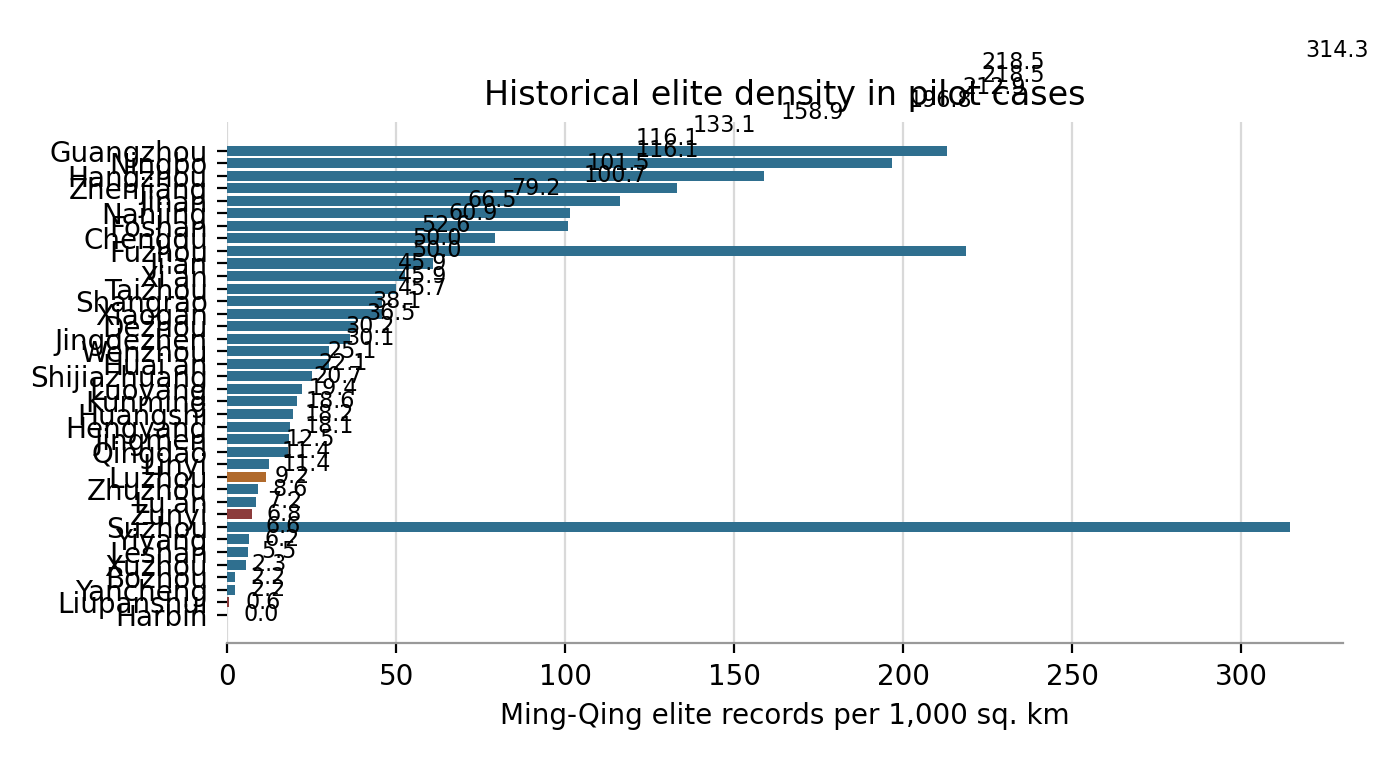
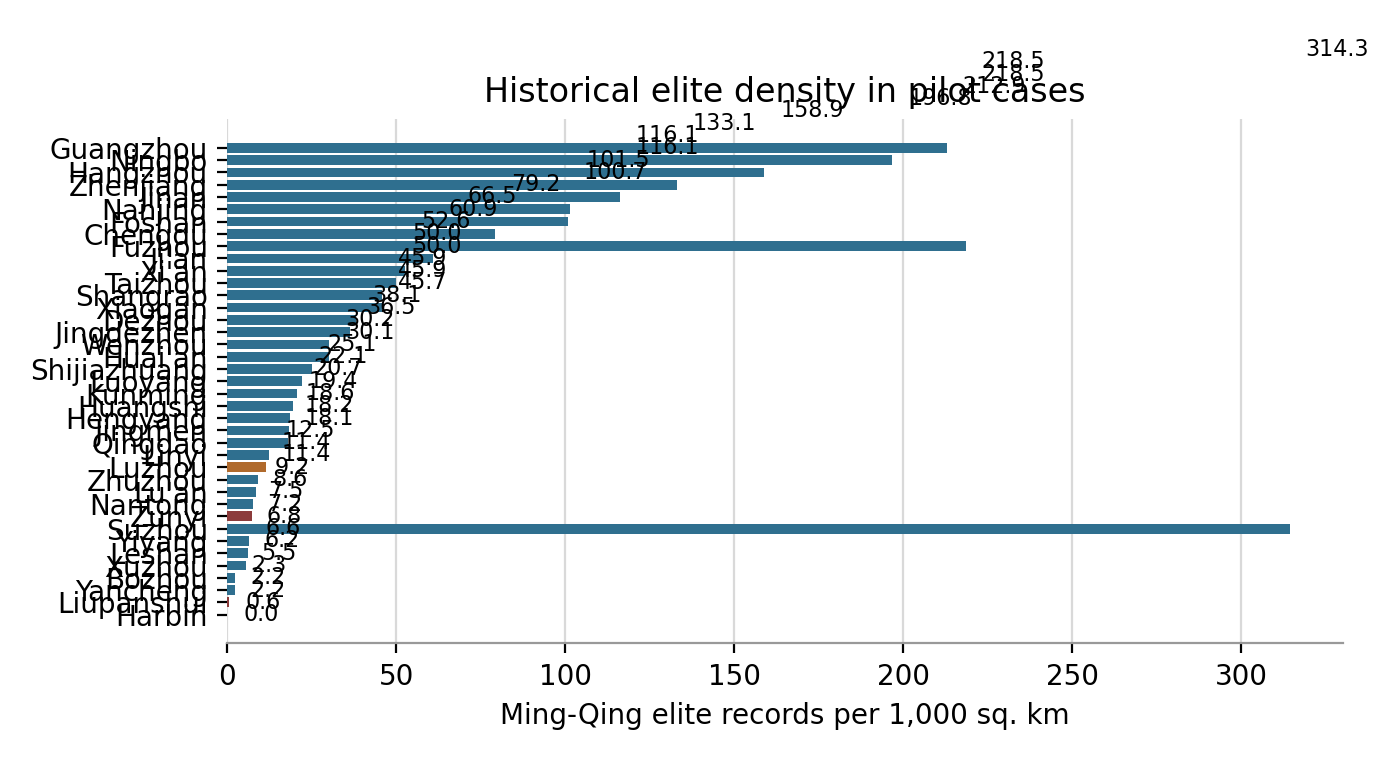
Validate Haian Tenghai development-zone case

Changed region(s): [[0.0, 0.0605, 0.7679, 0.7868], [0.9521, 0.0605, 0.9829, 0.0908]]

diff --git a/paper/sections/empirical_strategy.tex b/paper/sections/empirical_strategy.tex
@@ -51,7 +51,7 @@ human-validated labels from candidate cases throughout the analysis.
 
 Table \ref{tab:pilot-validation-tiers} summarizes the validation status of the
 current evidence packets. The human-validated label file now contains
-fifty-six cases, and the broader screening file contains 247 disclosure rows,
+fifty-seven cases, and the broader screening file contains 247 disclosure rows,
 including four boundary-reviewed packets. The descriptive tables in this section retain
 the historical-capacity matched subset until the remaining expansion cases are
 merged into the historical-capacity crosswalk. This keeps the pilot evidence
@@ -144,6 +144,17 @@ of the theory. High historical capacity does not guarantee substantive exit.
 It can also support a legally cleaner but still functionally persistent
 transport platform.
 
+Haian Tenghai Investment adds a county-level development-zone case. The formal
+record contains the usual no-government-financing and no-local-government-debt
+language, reinforced by a legal opinion. Yet the same documents describe
+Tenghai as a major investment and construction body for the Haian Economic and
+Technological Development Zone, with housing construction, infrastructure
+construction, municipal engineering, government receivables, fiscal cash-flow
+dependence, special project funds, and state-asset support. This case extends
+the same measurement logic below the prefecture level: formal compliance can
+coexist with continued public-development functions in county and development
+zone platforms.
+
 Table \ref{tab:pilot-mechanism-evidence} connects these labels to the three
 mechanisms in the theory section. The entries are qualitative evidence notes
 rather than numerical scores. They show whether each case contains evidence of
@@ -161,7 +172,7 @@ Figure \ref{fig:pilot-exit-type-distribution} reports the exit-type
 distribution by validation tier. The figure is not a population estimate.
 Rather, it records the current evidence map for the historically matched pilot
 subset. The full human-validated label file now contains two substantive-exit
-cases, forty-four nominal-exit cases, and ten functional-transfer cases. The
+cases, forty-five nominal-exit cases, and ten functional-transfer cases. The
 strong candidates extend the same institutional range, but remain outside the
 final label file because they still require either a direct formal exit source
 or a scope decision about whether the issuer should be treated as a core LGFV
@@ -219,21 +230,21 @@ functions buried in bond documents, or produce no useful label when the
 candidate file contains only a disclosure-page title.
 
 The current screening file makes this separation explicit. It contains
-fifty-six human-validated gold-standard cases, four boundary-reviewed packets,
-and 187 pending candidate cases. Applying the frozen codebook through a
-conservative Codex screening pass produces 39 surrogate labels and 148
+fifty-seven human-validated gold-standard cases, four boundary-reviewed packets,
+and 186 pending candidate cases. Applying the frozen codebook through a
+conservative Codex screening pass produces 38 surrogate labels and 148
 unresolved candidates. The surrogate labels are medium-confidence nominal-exit
 cases because the source packets pair no-government-financing language with
 continued evidence of public development, infrastructure construction,
 entrusted projects, land development, fiscal support, or state-asset functions.
-They correspond to 25 unique issuers because repeated
+They correspond to 24 unique issuers because repeated
 bond disclosures often describe the same platform. The analysis therefore
 treats them as disclosure-level surrogate labels until they are deduplicated
 or aggregated to the city-platform level. At the issuer level, 22 of these
 issuers exactly match platforms already present in the gold-standard file under
 different case IDs. This overlap is useful for checking whether the surrogate
 procedure recovers already validated nominal-exit cases, but it is not counted
-as new validation expansion. The remaining 3 non-overlap issuers form the next
+as new validation expansion. The remaining 2 non-overlap issuers form the next
 human-review queue. The unresolved cases remain
 unresolved for two reasons: some have source packets but no direct formal exit
 or compliance event, while others still need source-packet collection. These

diff --git a/paper/sections/introduction.tex b/paper/sections/introduction.tex
@@ -86,7 +86,7 @@ financial news. Large language models generate preliminary labels under a
 fixed codebook, but final labels are assigned only after human review of the
 original documents.
 
-The current label file contains fifty-six human-validated city-platform
+The current label file contains fifty-seven human-validated city-platform
 cases and a seed pool of 247 candidate disclosures for later
 LLM-assisted screening. The validated labels already recover three distinct
 institutional outcomes. Guangzhou and Ningbo are coded as substantive exit.
@@ -95,14 +95,17 @@ functional transfer. Xi'an, Chengdu, Zhuzhou, Xuzhou, Hengyang, Jinan,
 Yancheng, Suzhou, Zhangjiagang, Tianjin Jinnan, Lu'an, Taizhou, Huangshi,
 Linyi, Ji'an, Luoyang, Jingdezhen, Jingmen, Shangrao, Huai'an, Yiyang,
 Xinghua, Leshan, Dezhou, Fuzhou, Bozhou Jianan, Shangrao Innovation, Nanjing
-Transportation Construction Investment, and other continuing-platform cases
-are coded as nominal exit. Shijiazhuang Transportation Investment adds a
-middle-capacity transport-platform case in which no-government-financing
-language coexists with PPP, BOT, toll-right, subsidy, and state-asset support
-for municipal expressway projects. Nanjing adds a high-capacity transport case
-where compliant legal separation coexists with road, bridge, expressway,
-railway-supporting, toll-right, and fiscal-support functions inside the same
-municipal transport group. A small descriptive comparison links the historically matched
+Transportation Construction Investment, Jiangsu Tenghai Investment Holding, and
+other continuing-platform cases are coded as nominal exit. Shijiazhuang
+Transportation Investment adds a middle-capacity transport-platform case in
+which no-government-financing language coexists with PPP, BOT, toll-right,
+subsidy, and state-asset support for municipal expressway projects. Nanjing
+adds a high-capacity transport case where compliant legal separation coexists
+with road, bridge, expressway, railway-supporting, toll-right, and
+fiscal-support functions inside the same municipal transport group. Haian
+Tenghai adds a county-level development-zone case in which legal compliance
+coexists with housing construction, infrastructure construction, government
+receivables, fiscal cash-flow dependence, and special project funds. A small descriptive comparison links the historically matched
 subset of these labels to historical-capacity bins. It is not yet a population
 estimate, but it shows that the coding scheme recovers institutional variation
 and that the pilot already contains useful comparisons between high-capacity

diff --git a/paper/sections/coding_strategy.tex b/paper/sections/coding_strategy.tex
@@ -127,7 +127,7 @@ mechanically imply nominal exit because the continued function may be located
 in a successor entity rather than the same issuer.
 
 Table~\ref{tab:pilot_cases} summarizes five illustrative human-validated pilot
-cases. The full label file now contains fifty-six validated labels; this
+cases. The full label file now contains fifty-seven validated labels; this
 table is not an empirical result or an exhaustive case list. Its purpose is to
 show how the same coding rule operates across different documentary patterns.
 
@@ -199,19 +199,19 @@ also requires the model to return \texttt{unclear} when the source packet lacks
 a formal event or lacks evidence about the post-event function.
 
 The Codex screening pass follows this rule conservatively. It keeps the
-fifty-six human-validated labels as gold-standard observations and applies the codebook
-only to pending candidates. After removing four boundary-reviewed packets, the current pass screens 187 pending cases, produces
-39 medium-confidence surrogate labels, and leaves 148 cases unresolved. The
+fifty-seven human-validated labels as gold-standard observations and applies the codebook
+only to pending candidates. After removing four boundary-reviewed packets, the current pass screens 186 pending cases, produces
+38 medium-confidence surrogate labels, and leaves 148 cases unresolved. The
 surrogate labels are nominal-exit cases. They contain direct
 no-government-financing language together with continuing evidence of urban
 infrastructure, entrusted construction, land development, fiscal support, or
-public-project functions. They correspond to 25 unique issuers because several
+public-project functions. They correspond to 24 unique issuers because several
 labels come from repeated bond disclosures for the same platform. The
 statistical analysis will therefore aggregate or deduplicate them at the issuer
-or city-platform level. Twenty-two of the 25 issuers exactly match issuers that
+or city-platform level. Twenty-two of the 24 issuers exactly match issuers that
 already appear in the gold-standard label file under different case IDs. These
 overlaps are treated as consistency checks rather than new observations. The
-remaining 3 issuers form the next validation queue. The unresolved cases are
+remaining 2 issuers form the next validation queue. The unresolved cases are
 not negative outcomes. They either lack source-packet text or lack direct
 formal exit or compliance evidence. This is a feature of the design rather than
 a failure of automation: the model is allowed to identify source gaps instead

diff --git a/paper/tables/pilot_validation_tiers.tex b/paper/tables/pilot_validation_tiers.tex
@@ -7,11 +7,11 @@
 \toprule
 Tier & Cases & Use in the paper \\
 \midrule
-Human-validated label file & 56 & Used as gold-standard labels \\
-Historically matched validated subset & 15 & Used for pilot descriptive tables \\
+Human-validated label file & 57 & Used as gold-standard labels \\
+Historically matched validated subset & 16 & Used for pilot descriptive tables \\
 Candidate disclosure pool & 247 & Used for LLM-assisted screening \\
 Boundary-reviewed packets & 4 & Used to define scope conditions \\
-Pending LLM/human validation & 187 & Used for future sample expansion \\
+Pending LLM/human validation & 186 & Used for future sample expansion \\
 \bottomrule
 \end{tabular}
 \begin{minipage}{0.96\linewidth}

diff --git a/scripts/build_pilot_capacity_summary.py b/scripts/build_pilot_capacity_summary.py
@@ -39,6 +39,7 @@ OUT_FIG = ROOT / "paper" / "figures" / "pilot_case_historical_capacity.png"
 STRONG_CANDIDATE_IDS = {"pilot_sc_003"}
 WEAK_CANDIDATE_IDS = {"pilot_gz_002", "pilot_gz_003"}
 CITY_NAME_FIXES = {
+    "Haian": "Nantong",
     "Xian": "Xi'an",
 }
 CASE_STATUS_LABELS = {
@@ -170,6 +171,11 @@ MECHANISM_EVIDENCE = {
         "fiscal_absorption": "Fiscal settlement for entrusted construction and contract-based payments are documented.",
         "coordination": "SASAC-entrusted land preparation coexists with disclosure that the issuer was outside the 2018 platform directory.",
         "project_asset_governance": "Public project tasks are formalized through SASAC-owned land and contract settlement.",
+    },
+    "sch_20260630_0019": {
+        "fiscal_absorption": "Fiscal cash inflows, subsidies, and government-related current accounts remain central to repayment capacity.",
+        "coordination": "The development-zone committee, Kaisheng Group, and Tenghai are linked through state ownership and 2021 shareholder reorganization.",
+        "project_asset_governance": "Housing construction, municipal engineering, wastewater, industrial-park, and resettlement-housing project funds remain inside the issuer system.",
     },
 }
 LATEX_TEXT_REPLACEMENTS = {

diff --git a/paper/tables/pilot_capacity_bin_exit_type.tex b/paper/tables/pilot_capacity_bin_exit_type.tex
@@ -8,11 +8,11 @@
 Historical capacity bin & Substantive & Nominal & Functional transfer & Total \\
 \midrule
 High historical capacity & 2 & 3 & 2 & 7 \\
-Middle historical capacity & 0 & 3 & 1 & 4 \\
+Middle historical capacity & 0 & 4 & 1 & 5 \\
 Low historical capacity & 0 & 4 & 0 & 4 \\
 \bottomrule
 \end{tabular}
 \begin{minipage}{0.92\linewidth}
-\vspace{0.5em}\footnotesize Notes: The table uses only the 15 historically matched human-validated pilot labels. Capacity bins are assigned from the CBDB-GADM Ming-Qing elite-density measure in the pilot case matrix. Counts are descriptive and are not population estimates.
+\vspace{0.5em}\footnotesize Notes: The table uses only the 16 historically matched human-validated pilot labels. Capacity bins are assigned from the CBDB-GADM Ming-Qing elite-density measure in the pilot case matrix. Counts are descriptive and are not population estimates.
 \end{minipage}
 \end{table}

diff --git a/paper/figures/pilot_exit_type_distribution.tex b/paper/figures/pilot_exit_type_distribution.tex
@@ -8,7 +8,7 @@
 \toprule
 Validation tier & Distribution & Counts \\
 \midrule
-Human-validated $(n=15)$ & {\color{black!70}\rule{0.064\linewidth}{1.25ex}}{\color{black!40}\rule{0.320\linewidth}{1.25ex}}{\color{black!20}\rule{0.096\linewidth}{1.25ex}} & S=2; N=10; F=3 \\
+Human-validated $(n=16)$ & {\color{black!70}\rule{0.060\linewidth}{1.25ex}}{\color{black!40}\rule{0.330\linewidth}{1.25ex}}{\color{black!20}\rule{0.090\linewidth}{1.25ex}} & S=2; N=11; F=3 \\
 Strong candidate $(n=1)$ & {\color{black!70}\rule{0.480\linewidth}{1.25ex}} & S=1 \\
 Boundary case $(n=1)$ & \fcolorbox{black!50}{white}{\color{white}\rule{0.480\linewidth}{1.25ex}} & U=1 \\
 Source-only candidate $(n=3)$ & \fcolorbox{black!50}{white}{\color{white}\rule{0.480\linewidth}{1.25ex}} & U=3 \\

diff --git a/paper/main.tex b/paper/main.tex
@@ -38,7 +38,7 @@ govern projects and state assets after exit. The paper introduces an
 LLM-assisted, human-validated coding protocol using government documents,
 company disclosures, bond prospectuses, credit rating reports, legal opinions,
 and business registration records. The current label file contains
-fifty-six human-validated cases and is paired with a seed pool of 247
+fifty-seven human-validated cases and is paired with a seed pool of 247
 candidate disclosures for later LLM-assisted screening. The
 validated cases show that identical official compliance language can
 correspond to distinct institutional outcomes.

diff --git a/paper/sections/pilot_appendix.tex b/paper/sections/pilot_appendix.tex
@@ -2,7 +2,7 @@
 
 Table \ref{tab:pilot-source-audit} records the source trail behind the
 historically matched pilot labels. The full human-validated label file now
-contains fifty-six cases, while this table retains the subset used in the
+contains fifty-seven cases, while this table retains the subset used in the
 current historical-capacity comparison. For each case, it lists the primary
 document used for the label, the formal exit or compliance event, the observed
 post-event function, and the final coding decision. The table is deliberately

diff --git a/paper/sections/research_design.tex b/paper/sections/research_design.tex
@@ -60,7 +60,7 @@ main historical-capacity effect. Its purpose is to validate the measurement
 scheme, identify ambiguous cases, and discipline the larger source-collection
 process.
 
-The current label file contains fifty-six human-validated cases. Guangzhou
+The current label file contains fifty-seven human-validated cases. Guangzhou
 City Construction Investment Group and Ningbo Development Investment Group are
 coded as substantive exit because the available disclosures show movement away
 from off-budget financing for government projects. Hangzhou City Investment Group,

diff --git a/paper/tables/pilot_case_historical_capacity.tex b/paper/tables/pilot_case_historical_capacity.tex
@@ -47,6 +47,7 @@ Luzhou & Human-validated & Nominal exit & 11.36 \\
 Luzhou & Strong candidate & Near-miss functional persistence & 11.36 \\
 Zhuzhou & Human-validated & Nominal exit & 9.19 \\
 Lu'an & Human-validated & Nominal exit & 8.64 \\
+Nantong & Human-validated & Nominal exit & 7.52 \\
 Zunyi & Weak-capacity candidate & Source started & 7.21 \\
 Suzhou & Human-validated & Nominal exit & 6.80 \\
 Yiyang & Human-validated & Nominal exit & 6.56 \\

diff --git a/paper/tables/pilot_mechanism_evidence.tex b/paper/tables/pilot_mechanism_evidence.tex
@@ -48,6 +48,7 @@ Linyi & Nominal exit & Evidence not separately mechanism-coded in the current pi
 Luzhou & Nominal exit & Evidence not separately mechanism-coded in the current pilot table. & Evidence not separately mechanism-coded in the current pilot table. & Formal no-government-financing language coexists with a long record of continuing infrastructure investment-financing, government-designated project construction, entrusted-construction receivables, fiscal subsidies, project repurchase payments, and financing-interest support. The same issuer remains central to Luzhou's public-project finance after the formal compliance point. \\
 Zhuzhou & Nominal exit & Service-contract and fiscal-settlement evidence appears after formal exit. & Hunan banking-regulator exit is reported in issuer and legal documents. & Land preparation, major projects, fiscal settlement, and government support continue. \\
 Lu'an & Nominal exit & Evidence not separately mechanism-coded in the current pilot table. & Evidence not separately mechanism-coded in the current pilot table. & Formal no-BT and no-government-financing language coexists with continuing entrusted construction, infrastructure, affordable housing, PPP, fiscal payment, government receivables, special payables for construction funds, and fiscal subsidies. The public-development function remains inside the same issuer. \\
+Nantong & Nominal exit & Fiscal cash inflows, subsidies, and government-related current accounts remain central to repayment capacity. & The development-zone committee, Kaisheng Group, and Tenghai are linked through state ownership and 2021 shareholder reorganization. & Housing construction, municipal engineering, wastewater, industrial-park, and resettlement-housing project funds remain inside the issuer system. \\
 Suzhou & Nominal exit & Evidence not separately mechanism-coded in the current pilot table. & Evidence not separately mechanism-coded in the current pilot table. & Formal debt-compliance language coexists with continuing infrastructure construction, land-leveling, affordable-housing, entrusted-construction, fiscal-settlement, government-subsidy, and future public-development functions inside the same issuer. The documents do not show a clean relocation of these functions, so the institutional change is coded as nominal exit. \\
 Yiyang & Nominal exit & Evidence not separately mechanism-coded in the current pilot table. & Evidence not separately mechanism-coded in the current pilot table. & Marketization and government-financing-function stripping coexist with continuing transport infrastructure, road and bridge buyback receivables, delegated construction, finance-bureau repayment, fiscal-funded BT legacy projects, government receivables, fiscal subsidies, and city-level infrastructure operation. The same issuer remains central to public project construction, so the exit is coded as nominal exit. \\
 Leshan & Nominal exit & Evidence not separately mechanism-coded in the current pilot table. & Evidence not separately mechanism-coded in the current pilot table. & This is a direct formal transfer-out case, but the same issuer remains Leshan's most important infrastructure and state-asset management body and continues municipal infrastructure, affordable housing, transport infrastructure, land development, entrusted construction, government purchase service, PPP projects, government receivables, and subsidy-dependent operations. The formal exit therefore did not remove the issuer from public-development finance. \\